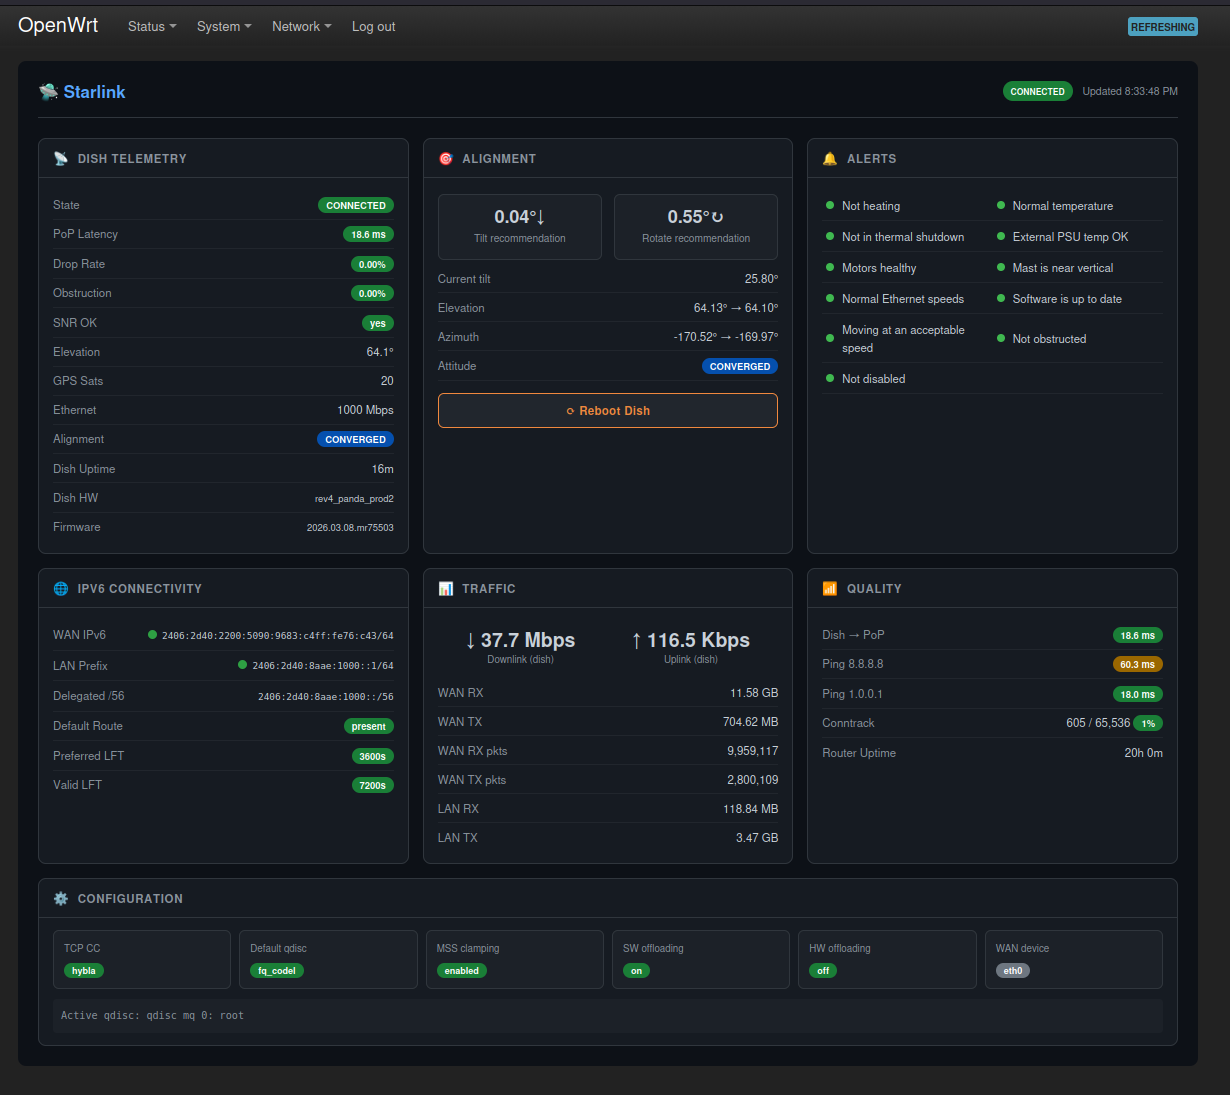
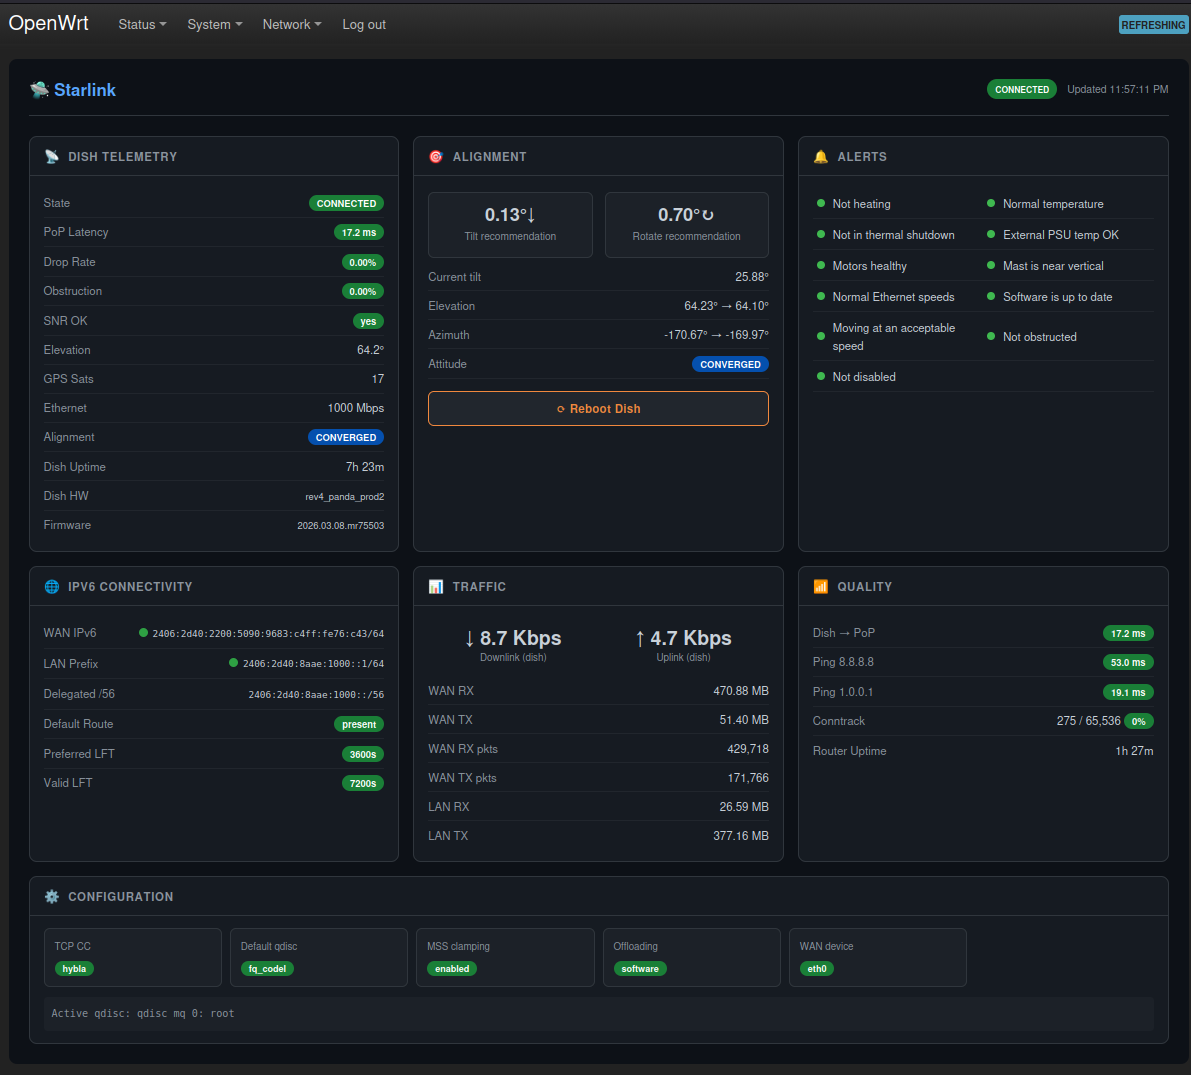
Bump to v1.0.0-r5: offloading display and auto-fix improvements
- Collapse SW/HW offloading into single Offloading badge showing effective
  mode (none/software/hardware) — avoids confusing dual-on display when HW
  offloading is enabled (HW requires SW=1 as UCI prerequisite)
- Auto-disable HW offloading via new disable_hw_offloading rpcd method when
  detected on dashboard poll — no manual command needed
- fq_codel badge now shows amber when HW offloading is active (bypassed)
- WAN device badge changed from muted to green
- Update screenshot

diff --git a/openwrt-feed/files/status.js b/openwrt-feed/files/status.js
@@ -23,6 +23,12 @@ var callRebootDish = rpc.declare({
 	expect: {}
 });
 
+var callDisableHwOffloading = rpc.declare({
+	object: 'luci.starlink',
+	method: 'disable_hw_offloading',
+	expect: {}
+});
+
 // ── Formatters ────────────────────────────────────────────────────────────────
 
 function fmtBytes(b) {
@@ -391,14 +397,17 @@ function buildConfigCard(s) {
 	var swOff  = s.sw_offloading === '1';
 	var hwOff  = s.hw_offloading === '1';
 
+	// HW offloading requires flow_offloading=1 (SW) as a UCI prerequisite, so when
+	// HW is on both UCI values are 1. Show effective mode as a single row.
+	var offloadMode = hwOff ? 'hardware' : swOff ? 'software' : 'none';
+	var offloadClass = hwOff ? 'warn' : swOff ? 'ok' : 'muted';
+
 	var cfgItems = [
-		['TCP CC',         badge(tcp_cc,  tcp_cc === 'hybla' ? 'ok' : tcp_cc === 'cubic' ? 'warn' : 'info')],
-		['Default qdisc',  badge(qdisc,   qdisc === 'fq_codel' ? 'ok' : 'warn')],
-		['MSS clamping',   badge(mtu  ? 'enabled'  : 'disabled', mtu  ? 'ok' : 'warn')],
-		['SW offloading',  badge(swOff ? 'on'  : 'off', swOff ? 'ok' : 'muted')],
-		// HW offloading is bad for fq_codel — flag it if on
-		['HW offloading',  badge(hwOff ? 'on'  : 'off', hwOff ? 'warn' : 'ok')],
-		['WAN device',     badge(s.wan_dev || 'unknown', 'muted')],
+		['TCP CC',        badge(tcp_cc,    tcp_cc === 'hybla' ? 'ok' : tcp_cc === 'cubic' ? 'warn' : 'info')],
+		['Default qdisc', badge(qdisc,     qdisc === 'fq_codel' && !hwOff ? 'ok' : 'warn')],
+		['MSS clamping',  badge(mtu ? 'enabled' : 'disabled', mtu ? 'ok' : 'warn')],
+		['Offloading',    badge(offloadMode, offloadClass)],
+		['WAN device',    badge(s.wan_dev || 'unknown', s.wan_dev ? 'ok' : 'warn')],
 	];
 
 	for (var i = 0; i < cfgItems.length; i++) {
@@ -413,9 +422,6 @@ function buildConfigCard(s) {
 	}
 
 	// Config warnings
-	if (s.hw_offloading === '1') {
-		body += '<div class="sl-note">⚠ Hardware offloading is <strong>on</strong> — this bypasses the Linux qdisc stack so fq_codel is inactive. Disable with: <code>uci set firewall.@defaults[0].flow_offloading_hw=0 && uci commit firewall && service firewall restart</code></div>';
-	}
 	if (s.tcp_cc && s.tcp_cc !== 'hybla') {
 		body += '<div class="sl-note">ℹ TCP congestion control is <strong>' + s.tcp_cc + '</strong>. For satellite links, hybla is preferred: <code>apk add kmod-tcp-hybla</code></div>';
 	}
@@ -468,7 +474,11 @@ return view.extend({
 
 		poll.add(function() {
 			return Promise.all([ callStatus(), callDish() ]).then(function(d) {
-				self._updateView(container, d[0] || {}, d[1] || {});
+				var s = d[0] || {};
+				if (s.hw_offloading === '1') {
+					callDisableHwOffloading();
+				}
+				self._updateView(container, s, d[1] || {});
 			});
 		}, 10);
 

diff --git a/root/www/luci-static/resources/view/starlink/status.js b/root/www/luci-static/resources/view/starlink/status.js
@@ -23,6 +23,12 @@ var callRebootDish = rpc.declare({
 	expect: {}
 });
 
+var callDisableHwOffloading = rpc.declare({
+	object: 'luci.starlink',
+	method: 'disable_hw_offloading',
+	expect: {}
+});
+
 // ── Formatters ────────────────────────────────────────────────────────────────
 
 function fmtBytes(b) {
@@ -391,14 +397,17 @@ function buildConfigCard(s) {
 	var swOff  = s.sw_offloading === '1';
 	var hwOff  = s.hw_offloading === '1';
 
+	// HW offloading requires flow_offloading=1 (SW) as a UCI prerequisite, so when
+	// HW is on both UCI values are 1. Show effective mode as a single row.
+	var offloadMode = hwOff ? 'hardware' : swOff ? 'software' : 'none';
+	var offloadClass = hwOff ? 'warn' : swOff ? 'ok' : 'muted';
+
 	var cfgItems = [
-		['TCP CC',         badge(tcp_cc,  tcp_cc === 'hybla' ? 'ok' : tcp_cc === 'cubic' ? 'warn' : 'info')],
-		['Default qdisc',  badge(qdisc,   qdisc === 'fq_codel' ? 'ok' : 'warn')],
-		['MSS clamping',   badge(mtu  ? 'enabled'  : 'disabled', mtu  ? 'ok' : 'warn')],
-		['SW offloading',  badge(swOff ? 'on'  : 'off', swOff ? 'ok' : 'muted')],
-		// HW offloading is bad for fq_codel — flag it if on
-		['HW offloading',  badge(hwOff ? 'on'  : 'off', hwOff ? 'warn' : 'ok')],
-		['WAN device',     badge(s.wan_dev || 'unknown', 'muted')],
+		['TCP CC',        badge(tcp_cc,    tcp_cc === 'hybla' ? 'ok' : tcp_cc === 'cubic' ? 'warn' : 'info')],
+		['Default qdisc', badge(qdisc,     qdisc === 'fq_codel' && !hwOff ? 'ok' : 'warn')],
+		['MSS clamping',  badge(mtu ? 'enabled' : 'disabled', mtu ? 'ok' : 'warn')],
+		['Offloading',    badge(offloadMode, offloadClass)],
+		['WAN device',    badge(s.wan_dev || 'unknown', s.wan_dev ? 'ok' : 'warn')],
 	];
 
 	for (var i = 0; i < cfgItems.length; i++) {
@@ -413,9 +422,6 @@ function buildConfigCard(s) {
 	}
 
 	// Config warnings
-	if (s.hw_offloading === '1') {
-		body += '<div class="sl-note">⚠ Hardware offloading is <strong>on</strong> — this bypasses the Linux qdisc stack so fq_codel is inactive. Disable with: <code>uci set firewall.@defaults[0].flow_offloading_hw=0 && uci commit firewall && service firewall restart</code></div>';
-	}
 	if (s.tcp_cc && s.tcp_cc !== 'hybla') {
 		body += '<div class="sl-note">ℹ TCP congestion control is <strong>' + s.tcp_cc + '</strong>. For satellite links, hybla is preferred: <code>apk add kmod-tcp-hybla</code></div>';
 	}
@@ -468,7 +474,11 @@ return view.extend({
 
 		poll.add(function() {
 			return Promise.all([ callStatus(), callDish() ]).then(function(d) {
-				self._updateView(container, d[0] || {}, d[1] || {});
+				var s = d[0] || {};
+				if (s.hw_offloading === '1') {
+					callDisableHwOffloading();
+				}
+				self._updateView(container, s, d[1] || {});
 			});
 		}, 10);
 

diff --git a/README.md b/README.md
@@ -38,7 +38,7 @@ This package is designed to work alongside [starlink-openwrt-ipv6-optimized](htt
 | `luci-base` | LuCI web interface |
 | `rpcd` | RPC daemon (usually pre-installed) |
 | `jsonfilter` | JSON parser for shell scripts |
-| `grpcurl` | Required for dish telemetry — **installed automatically by the APK from v1.0.0-r4** (downloaded to `/usr/bin/grpcurl` during `apk add`) |
+| `grpcurl` | Required for dish telemetry — **installed automatically by the APK from v1.0.0-r5** (downloaded to `/usr/bin/grpcurl` during `apk add`) |
 
 ---
 
@@ -48,15 +48,15 @@ Download the latest `.apk` from [Releases](../../releases).
 
 ```sh
 # Copy to router
-scp -O luci-app-starlink-1.0.0-r4.apk root@192.168.1.1:/tmp/
+scp -O luci-app-starlink-1.0.0-r5.apk root@192.168.1.1:/tmp/
 
 # Install (no key verification needed for local install)
-ssh root@192.168.1.1 'apk add --allow-untrusted /tmp/luci-app-starlink-1.0.0-r4.apk'
+ssh root@192.168.1.1 'apk add --allow-untrusted /tmp/luci-app-starlink-1.0.0-r5.apk'
 ```
 
 The post-install script automatically downloads and installs `grpcurl`, then restarts `rpcd` and `uhttpd`. Navigate to **Network → Starlink** in the LuCI menu.
 
-> **Note:** From v1.0.0-r4, grpcurl is downloaded and installed automatically during `apk add`. No manual steps required. If the download fails (no internet access), run `/usr/bin/install-grpcurl` manually once connected.
+> **Note:** From v1.0.0-r5, grpcurl is downloaded and installed automatically during `apk add`. No manual steps required. If the download fails (no internet access), run `/usr/bin/install-grpcurl` manually once connected.
 
 ---
 
